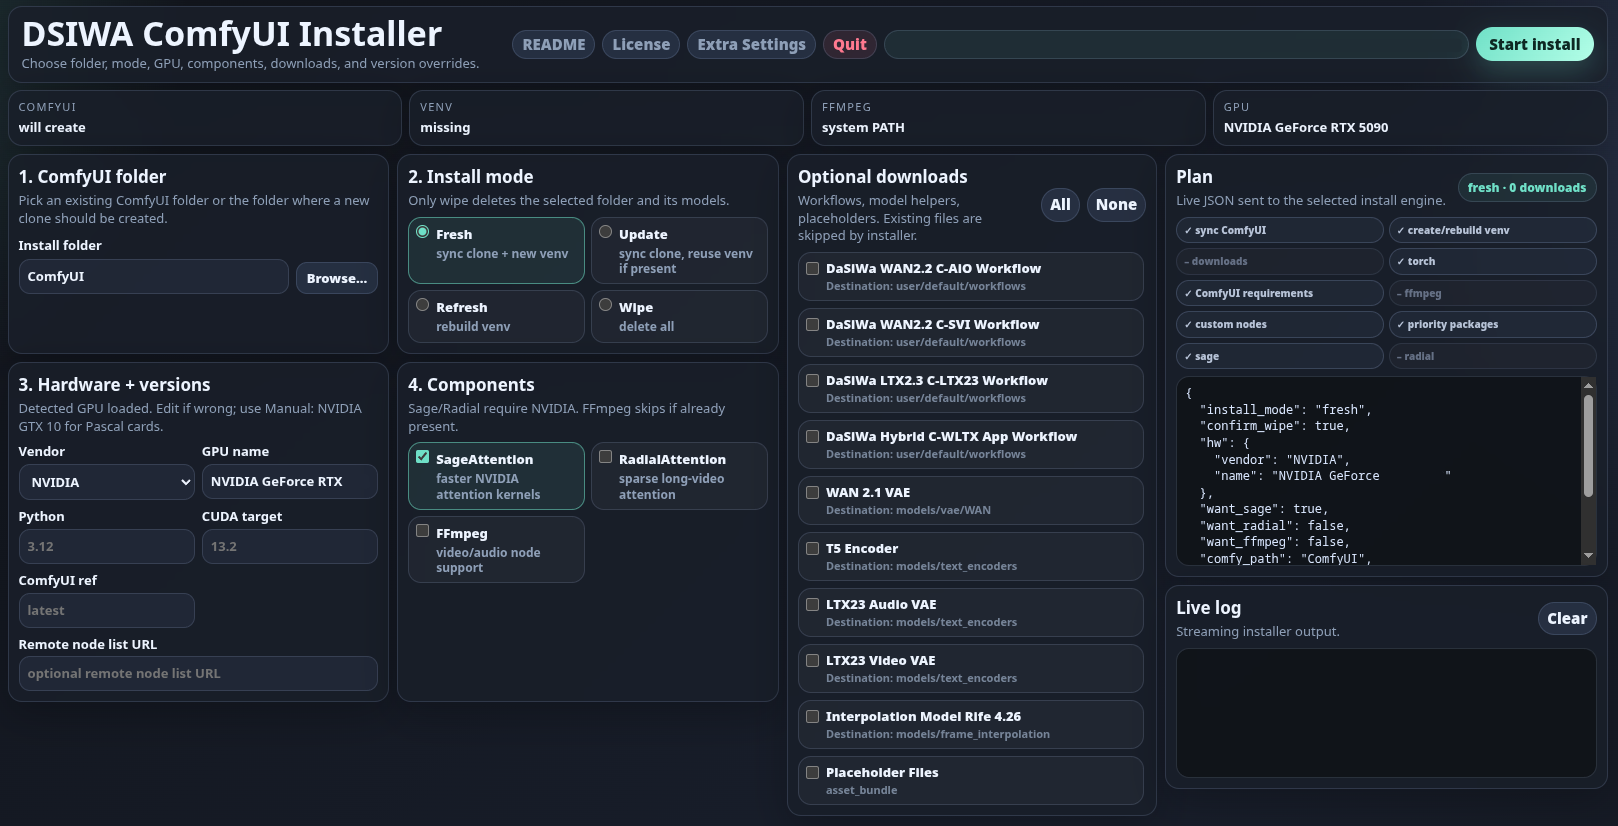
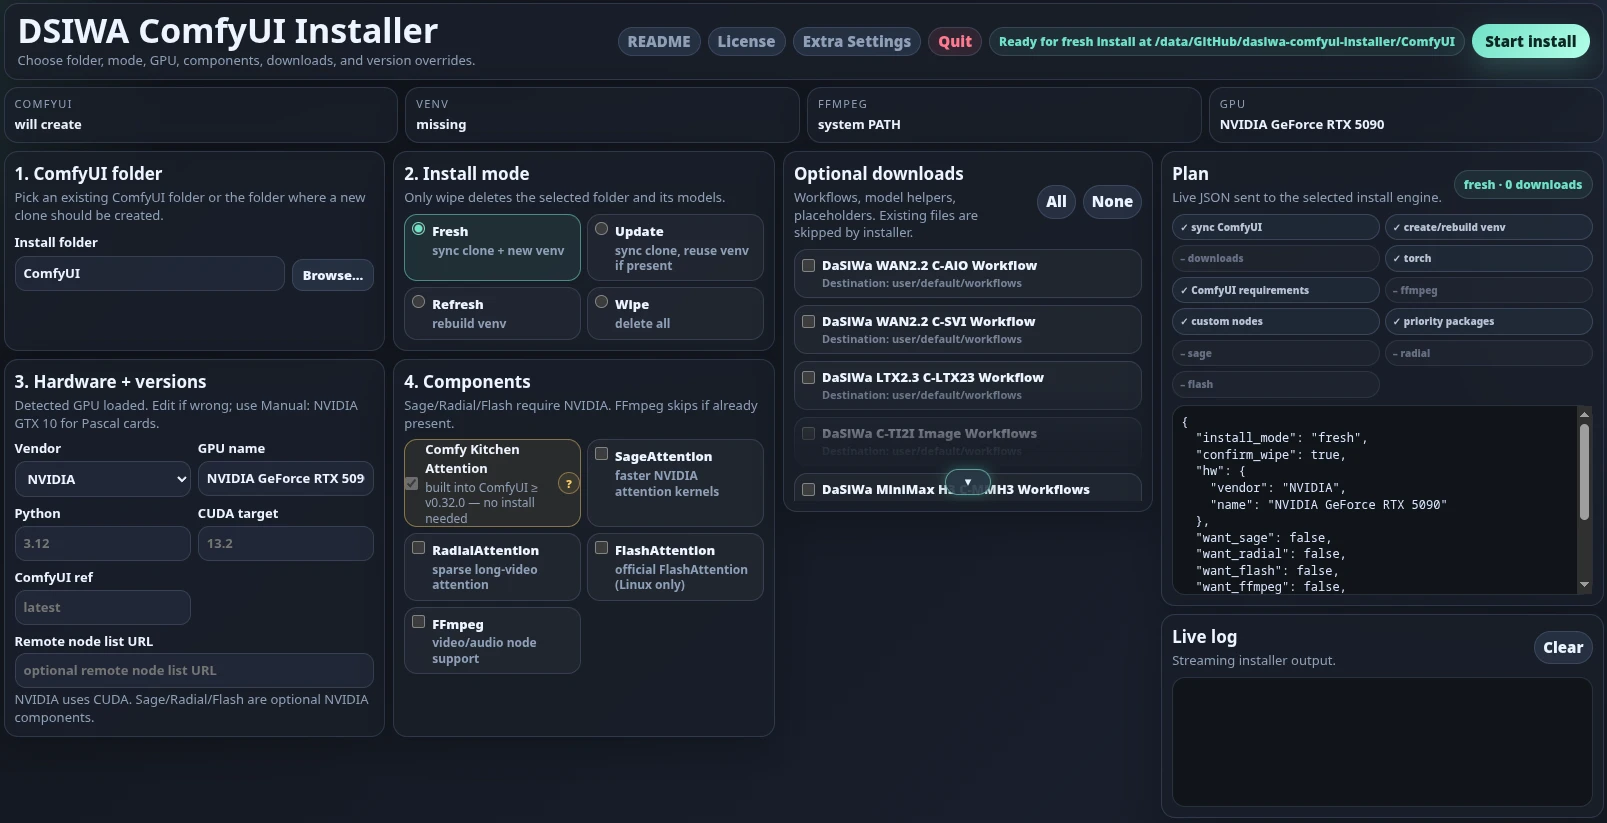
docs: refresh installer preview and align README with native implementation

diff --git a/README.md b/README.md
@@ -4,22 +4,25 @@
 
 **One binary. Walk away. Come back to a working ComfyUI.**
 
-A professional-grade installer for [ComfyUI](https://github.com/comfyanonymous/ComfyUI) built on a zero-conflict, fully isolated architecture. No Python knowledge required. No admin rights needed. No system files touched.
+A standalone installer for [ComfyUI](https://github.com/comfyanonymous/ComfyUI) with a local managed Python runtime and isolated packages. No Python knowledge required. Core installation needs no admin rights; optional Linux FFmpeg installation uses the system package manager.
 
 [![License: MIT](https://img.shields.io/badge/License-MIT-yellow.svg)](LICENSE)
-[![Platform](https://img.shields.io/badge/platform-Windows%20%7C%20Linux-blue)]()
-[![Python](https://img.shields.io/badge/python-3.12-brightgreen)]()
+[![Platform](https://img.shields.io/badge/platform-Windows%20%7C%20Linux-blue)](#prerequisites)
+[![GPU: NVIDIA | AMD](https://img.shields.io/badge/GPU-NVIDIA%20%7C%20AMD-76B900)](#hardware-support)
+[![Python default: 3.12](https://img.shields.io/badge/python%20default-3.12-brightgreen)](#configuration)
 
 </div>
 
-![DaSiWa ComfyUI Installer](assets/DaSiWa-ComfyUI-Installer.webp)
+![DaSiWa ComfyUI Installer — one-page setup, hardware selection, components and live plan](assets/DaSiWa-ComfyUI-Installer.webp)
+
+*One-page installer UI. NVIDIA is selected in this preview; AMD ROCm prerequisites and verification limits are listed below.*
 
 ---
 
 ## Unified One-Page Installer
 
 The installer now presents the full setup on a single local page. Folder
-selection, install mode, GPU and CUDA target, SageAttention, FFmpeg, optional
+selection, install mode, GPU backend and CUDA target, Sage/Radial/FlashAttention, FFmpeg, optional
 downloads, and the final install plan are all visible at once, with no separate
 pages or script chain to follow.
 
@@ -28,7 +31,7 @@ That unified layout is deliberate:
 - Choose the ComfyUI folder once.
 - Pick the install mode once.
 - Review hardware and version overrides in the same view.
-- Toggle SageAttention, FFmpeg, and optional downloads without leaving the page.
+- Toggle NVIDIA-only Sage/Radial/FlashAttention, FFmpeg, and optional downloads without leaving the page.
 - Inspect the live JSON plan before starting the install.
 - Use **Extra Settings** for in-memory overrides without mutating the embedded defaults.
 
@@ -37,12 +40,12 @@ That unified layout is deliberate:
 ## What it does
 
 You run the standalone installer binary. It opens a local web UI, asks you a
-handful of questions upfront, then handles everything else unattended:
+handful of choices upfront, then runs the native installation flow:
 
-- Downloads and configures a **fully portable Python 3.12 environment** isolated inside your ComfyUI folder
-- Clones ComfyUI at the latest stable release tag or a specific version you choose
-- Detects your GPU and installs the **exact right PyTorch build** for your hardware
-- Optionally installs **SageAttention**, **RadialAttention**, **FlashAttention**, **FFmpeg**, and a curated set of **custom nodes**
+- Downloads a **managed Python runtime** (3.12 by default) into `ComfyUI/.dasiwa/python/`, with packages isolated in `ComfyUI/venv/`
+- Clones ComfyUI from its default branch; subsequent syncs use `master` for `latest`, or a chosen ref
+- Detects GPU hardware and selects **CUDA, AMD ROCm or Intel XPU** packages; AMD selection and GPU computation are checked explicitly
+- Installs the configured **custom nodes** and optionally **SageAttention**, **RadialAttention**, **FlashAttention** and **FFmpeg**
 - Creates a ready-to-launch `run_comfyui` starter in your ComfyUI folder
 - On subsequent runs, detects what's already installed and asks whether to update, refresh, or leave it alone
 
@@ -104,7 +107,7 @@ To build standalone app binaries, use the build script:
 
 ```bash
 ./build.sh            # version auto-detected via `git describe`
-./build.sh 2.0.0     # or pin a specific version
+./build.sh 2.2.0     # or pin a specific version
 ```
 
 This cross-builds the Windows and Linux installer binaries directly into the
@@ -119,7 +122,7 @@ Equivalently, run the Go release builder directly (`--out` optionally selects
 a different single output directory; it does not create a root mirror):
 
 ```bash
-go run ./cmd/build-release --version 2.0.0
+go run ./cmd/build-release --version 2.2.0
 ```
 
 Those binaries can be copied into an empty install folder and launched directly.
@@ -134,9 +137,10 @@ extra file.
 | Requirement | Notes |
 | :---------- | :---- |
 | **GPU** | NVIDIA (GTX 10-series or newer), a listed AMD model/target below, or Intel Arc |
-| **Internet** | Active connection; ~20 GB free disk space for a full install with models |
-| **Git** | Auto-installed on Windows if missing (fetches the latest release automatically). Required on Linux: `sudo apt install git` |
-| **Admin rights** | Not required |
+| **Internet / disk** | Active connection; reserve space for the Python/Torch runtime, caches and selected models. Large optional encoders can require many GB each. |
+| **Git** | Must already be available in PATH on Windows and Linux; the installer does not install Git. |
+| **Drivers** | Install compatible GPU drivers beforehand; the installer does not install or update drivers. AMD requirements are below. |
+| **Admin rights** | Not required for the core install. Missing Linux FFmpeg is installed via a system package manager, normally requiring sudo. |
 
 ---
 
@@ -149,25 +153,25 @@ on one page, then start the install once.
 
 **The page includes:**
 
-1. **Install mode** — Update in place, Refresh the environment, Full reinstall, or Cancel. Nothing destructive happens without explicit confirmation.
+1. **Install mode** — Fresh, Update, Refresh, or Wipe. Wipe requires the deletion checkbox; **Quit** exits without starting an installation.
 2. **Hardware and versions** — GPU vendor, GPU name, Python version, ComfyUI ref, and CUDA target.
-3. **SageAttention** — yes or no. Modern NVIDIA installs use the complete CUDA 12.8 PyTorch wheel bundle when a requested CUDA 13.x target is not installable with `torchaudio` on Windows. Embedded defaults and local overrides are never mutated.
+3. **Components** — SageAttention, RadialAttention and FlashAttention are opt-in NVIDIA components. AMD/Intel selections disable and uncheck them. Comfy Kitchen Attention is shown as built into compatible ComfyUI versions, not installed as a separate optional extension.
 4. **FFmpeg** — yes or no. Skipped automatically if already present.
 5. **Optional downloads** — shows only what is not already on disk.
 6. **Live plan** — a JSON preview of the exact install request that will be submitted to the native installer engine.
 
-The page is single-shot by design: once you click start, the native Go installer runs unattended until completion.
+The page collects choices before starting the native Go installer. Core package operations require no interactive choices. If FFmpeg is missing on Linux, install it beforehand or disable its component to avoid a sudo-dependent system installation.
 
 ---
 
 ## Hardware Support
 
-GPU detection is automatic. If detection fails, you get a manual selection menu — a CPU-only install is never silently allowed.
+GPU detection is automatic, but review the vendor and editable GPU-name field before starting. Detection failure leaves a manual NVIDIA placeholder; select the actual vendor/model. AMD rejects unknown names and requires a working GPU computation. NVIDIA/Intel do not currently have the same end-to-end GPU probe.
 
 | Vendor | Series | PyTorch Build |
 | :----- | :----- | :------------ |
-| **NVIDIA** | RTX 20 / 30 / 40 | CUDA 12.8 + Torch 2.9.1 + torchaudio 2.9.1 (configurable) |
-| **NVIDIA** | RTX 50 (Blackwell) | CUDA 12.8 + Torch 2.9.1 + torchaudio 2.9.1 |
+| **NVIDIA** | RTX 20 / 30 / 40 | Default CUDA 13.0: Torch 2.11.0, torchvision 0.26.0, torchaudio 2.11.0 |
+| **NVIDIA** | RTX 50 (Blackwell) | Default CUDA 13.0: Torch 2.11.0, torchvision 0.26.0, torchaudio 2.11.0 |
 | **NVIDIA** | GTX 10 / Pascal | CUDA 12.1 + Torch 2.4.1 (locked) |
 | **AMD** | RX 6800 / XT, 6900 XT, 6950 XT; PRO W6800 | ROCm 10.0, `gfx1030` |
 | **AMD** | RX 7900 XT / XTX; PRO W7800 / W7900 | ROCm 10.0, `gfx1100` |
@@ -178,7 +182,7 @@ GPU detection is automatic. If detection fails, you get a manual selection menu 
 | **AMD** | RX 9070 / XT; Radeon AI PRO R9700 | ROCm 10.0, `gfx1201` |
 | **Intel** | Arc / iGPU | XPU wheel |
 
-Detection uses `nvidia-smi` and `lspci` (Linux) or `Win32_VideoController` (Windows), with a weighted sort that ensures a discrete GPU always wins over an integrated one sharing the same system.
+Detection uses `nvidia-smi` and `lspci` on Linux, or Windows CIM/WMI with fallback probes. Selection uses hardware-name heuristics; verify the result on multi-GPU systems. Intel XPU package selection is implemented but is not certified by the AMD verification results.
 
 ---
 
@@ -229,16 +233,16 @@ References: [AMD ROCm 10.0 compatibility](https://rocm.docs.amd.com/en/docs-10.0
 SageAttention delivers significantly faster attention kernels for NVIDIA GPUs. The installer handles the full complexity of getting it working:
 
 **Windows — prebuilt wheel (default)**
-Queries the [wildminder.github.io](https://wildminder.github.io/AI-windows-whl/) release API at install time, finds the ABI3 wheel that matches your installed Torch version and CUDA tag, and installs it in seconds. No compiler needed for most users.
+Queries [woct0rdho/SageAttention releases](https://github.com/woct0rdho/SageAttention/releases) for a CUDA-tag-matching ABI3 wheel, with bundled fallback URLs for `cu128` and `cu130`. Torch must be at least 2.9; the installer also attempts the matching `triton-windows` family and verifies the SageAttention import.
 
-**Windows — source build (fallback)**
-If no matching prebuilt wheel exists, falls back to a full CUDA source build with proper MSVC environment loading (`vcvars64.bat` is sourced and verified, `CUDA_HOME` is auto-detected, `DISTUTILS_USE_SDK=1` is set). Build parallelism is tuned to your available RAM to avoid out-of-memory linker failures.
+**Windows — failure behavior**
+The current Windows path is wheel-only. No SageAttention source-build fallback is invoked; wheel resolution, installation or import failure stops the install when SageAttention is selected.
 
 **Linux**
 Tries the precompiled SageAttention wheel path first. If no compatible wheel exists, the installer attempts a source build only when `nvcc` and a compatible `g++`/`clang++` host compiler are available. Missing or incompatible compilers skip SageAttention instead of failing the whole ComfyUI install.
 
 **CUDA Wheel Selection**
-For modern NVIDIA cards, requested CUDA 13.x targets are normalized to the official `https://download.pytorch.org/whl/cu128` wheel index with Torch 2.9.1, torchvision 0.24.1, and torchaudio 2.9.1. PyTorch publishes `cu132` Torch and torchvision wheels, but not a matching Windows Python 3.12 `torchaudio` wheel. GTX 10 / Pascal remains locked to CUDA 12.1 and Torch 2.4.1.
+For modern NVIDIA cards, requested CUDA 13.x targets (including the configured default `13.2`) map to `https://download.pytorch.org/whl/cu130` with Torch 2.11.0, torchvision 0.26.0 and torchaudio 2.11.0. This keeps the audio package aligned with Torch rather than mixing it with newer Torch-only wheel sets. GTX 10 / Pascal remains locked to CUDA 12.1, Torch 2.4.1, torchvision 0.19.1 and torchaudio 2.4.1. SageAttention requires newer Torch and is not compatible with that legacy stack.
 
 ---
 
@@ -250,7 +254,7 @@ RadialAttention is a sparse long-video attention optimization. The installer clo
 
 ## FlashAttention
 
-FlashAttention is the official attention kernel library from Dao-AILab. It can provide significant speedups for compatible models and is Linux-only (no Windows wheels are published).
+The installer's FlashAttention path targets Dao-AILab's CUDA attention library on **NVIDIA/Linux**. The Windows path is skipped; AMD implementations are not handled by this component.
 
 **Installation strategies (in order):**
 
@@ -286,7 +290,7 @@ https://github.com/user/node
 # Recursive clone for nodes with git submodules (e.g. CosyVoice, Foley)
 https://github.com/user/node | sub
 
-# Editable/library install (pip install -e .)
+# Editable/library install (uv pip install -e .)
 https://github.com/user/node | pkg
 
 # Custom requirements filename
@@ -340,11 +344,11 @@ in the final warning summary.
 
 Running the installer a second time is safe. It detects existing state before asking any questions:
 
-- **ComfyUI already present?** Offers Update / Refresh / Full reinstall / Cancel.
-- **Venv already set up?** Reused in Update mode; rebuilt only in Refresh or Reinstall.
+- **ComfyUI already present?** Defaults to Update; Refresh and Wipe remain explicit choices.
+- **Venv already set up?** Reused/migrated in Update mode; rebuilt in Fresh, Refresh or Wipe mode.
 - **SageAttention already importable?** Skipped entirely.
 - **FFmpeg already in PATH or in `ComfyUI/ffmpeg/`?** Skipped.
-- **Models already downloaded?** Checked by filename and file size. Truncated or missing files are re-fetched; complete files are skipped.
+- **Models already downloaded?** Menu filtering checks existing filenames. When a download is processed, its size is compared with the remote size if available; this is not a checksum or a full integrity audit of files hidden by the menu.
 
 ---
 
@@ -367,25 +371,33 @@ Installer tools and caches are separate; system Python is not modified.
 | :--- | :---- | :---- |
 | Python runtime + standard library | `ComfyUI/.dasiwa/python/` | Managed by `uv`; required to run ComfyUI |
 | Python environment + packages | `ComfyUI/venv/` | Uses the ComfyUI-local runtime |
-| ComfyUI itself | `ComfyUI/` | Pinned to a specific git tag or `master` |
+| ComfyUI itself | `ComfyUI/` | Default-branch clone; existing checkout syncs to `master` or the selected ref |
 | Custom nodes | `ComfyUI/custom_nodes/` | Cloned and updated by the installer |
 | Portable FFmpeg | `ComfyUI/ffmpeg/bin/` | Windows only; injected into launcher PATH |
 | Launcher | `ComfyUI/run_comfyui.bat` / `.sh` | Opens browser + starts server |
-| SageAttention | Inside venv | Built against the venv Python |
+| SageAttention | Inside venv | Windows ABI3 wheel; Linux wheel or guarded source build |
+| AMD package constraints | `ComfyUI/.dasiwa/rocm-constraints.txt` | Pins the ROCm Torch stack for installer dependency operations |
 
-Your system Python, system PATH, and Windows registry are never touched.
+System Python, persistent system PATH and Windows registry settings are not modified. Child processes receive a local PATH. Optional Linux FFmpeg installation is the exception to local-only package installation.
 
-**Package management:** All package operations go through `uv`, which is up to 10× faster than pip and resolves dependencies without version-clash warnings. You should never use `pip` directly in this environment.
+**Python package management:** Installer package operations use `uv` against the ComfyUI venv, not system Python. Incompatible dependencies can still fail resolution and produce errors or component warnings. Do not use system `pip` to modify this environment.
 
 To manually add a package:
 
 ```
-# Windows
-.\ComfyUI\venv\Scripts\uv pip install <package-name>
+# Windows (from the installer root; local uv if downloaded)
+.\.dasiwa\bin\uv.exe pip install --python .\ComfyUI\venv\Scripts\python.exe <package-name>
 
-# Linux
-./ComfyUI/venv/bin/uv pip install <package-name>
+# Linux (from the installer root; local uv if downloaded)
+./.dasiwa/bin/uv pip install --python ./ComfyUI/venv/bin/python <package-name>
 ```
+
+If the installer reused a current PATH-provided `uv`, use `uv` instead of the
+local executable path above. Adjust the Python path if your ComfyUI folder is
+elsewhere. `uv` is not installed inside the venv. On AMD, manual operations must
+also preserve the stable AMD index and the constraints in
+`ComfyUI/.dasiwa/rocm-constraints.txt`; the installer's inherited environment is
+not automatically active in a separate terminal.
 
 ---
 
@@ -410,15 +422,17 @@ are merged over the defaults, while arrays such as `custom_nodes` and
 
 Only include the keys you want to change. Everything else inherits from `config.json`.
 
-### Full `config.json` reference
+### Runtime configuration reference
+
+The embedded `version` is `2.2.0`. AMD Torch versions and supported gfx targets are selected by the native installer, not by the `cuda` settings. The legacy `urls.msvc_build_tools` entry remains in shipped defaults but is not consumed by the current native flow.
 
 | Key | Default | Purpose |
 | :-- | :------ | :------ |
 | `python.display_name` | `"3.12"` | Python version passed to `uv python install` |
-| `comfyui.version` | `"latest"` | `"latest"` = newest git tag; any other value = specific tag |
+| `comfyui.version` | `"latest"` | `"latest"` maps to `master` for existing checkouts; another value selects a ref on sync. Initial clone uses the upstream default branch. |
 | `comfyui.fallback_branch` | `"master"` | Used if the targeted tag checkout fails |
-| `cuda.global` | `"13.2"` | Requested CUDA wheel target for NVIDIA; CUDA 13.x is normalized to CUDA 12.8 where torchaudio is required |
-| `cuda.min_cuda_for_50xx` | `"13.2"` | Requested CUDA target for Blackwell / RTX 50-series; CUDA 13.x is normalized to CUDA 12.8 where torchaudio is required |
+| `cuda.global` | `"13.2"` | Requested NVIDIA wheel target; CUDA 13.x maps to the pinned CUDA 13.0 package set |
+| `cuda.min_cuda_for_50xx` | `"13.2"` | RTX 50-series wheel target; takes precedence over the generic target and maps to CUDA 13.0 |
 | `custom_nodes` | array | Default custom node repos and optional pipe flags |
 | `urls.custom_nodes` | unset | Optional remote node-list URL; when set, it overrides `custom_nodes` |
 | `urls.ffmpeg_windows` | BtbN release URL | Portable FFmpeg zip for Windows |
@@ -426,12 +440,11 @@ Only include the keys you want to change. Everything else inherits from `config.
 | `urls.sparge_repo` | woct0rdho/SpargeAttn | SpargeAttention source for RadialAttention |
 | `urls.radial_node_repo` | woct0rdho/ComfyUI-RadialAttn | RadialAttention custom node repo |
 | `urls.flash_attn_repo` | Dao-AILab/flash-attention | FlashAttention source for the fallback build |
-| `urls.msvc_build_tools` | VS download page | Opened in-browser when MSVC is missing |
 | `optional_downloads` | — | Models and workflows offered in the web installer |
 
 ### Adding models and workflows
 
-To add items to the optional downloads menu, append to `optional_downloads` in `config.json`:
+To customize optional downloads for the current run, replace the `optional_downloads` array in **Extra Settings**. To change shipped defaults, edit `config.json` before rebuilding. A direct-download entry has this shape:
 
 ```json
 {
@@ -441,20 +454,21 @@ To add items to the optional downloads menu, append to `optional_downloads` in `
 }
 ```
 
-For GitHub-hosted assets with a `"latest"` version, include `repo_path` and `folder` instead of `url` — the installer queries the GitHub commits API to find the most recently updated file.
+For GitHub-hosted workflow JSON files, set `version` to `"latest"` and provide `repo_path` and `folder` instead of `url`. The installer lists folder contents and selects the highest trailing `-<number>.json` revision, with filename ordering as a tie-breaker/fallback. If the GitHub contents API fails, it attempts a Git-based lookup; selection is not based on commit timestamps.
 
 ---
 
 ## Run Modes
 
-When an existing install is detected, the web installer offers four choices:
+The web installer exposes these modes; **Quit** closes the app without starting an installation:
 
 | Mode | What happens |
 | :--- | :----------- |
-| **Update in place** | Pulls ComfyUI changes, re-syncs nodes, reuses the existing venv |
-| **Refresh environment** | Rebuilds the venv from scratch, reinstalls all packages, keeps models |
-| **Full reinstall** | Deletes the entire ComfyUI folder and starts over (double-confirmed) |
-| **Cancel** | Exits without touching anything |
+| **Fresh** | Clones/syncs ComfyUI and creates a new venv; on an existing folder, rebuilds its venv without deleting models |
+| **Update** | Syncs ComfyUI and nodes; reuses/migrates an existing venv while preserving its Python ABI |
+| **Refresh** | Rebuilds the venv, reinstalls packages, keeps models |
+| **Wipe** | Deletes the selected ComfyUI folder, including models, then starts over; requires the deletion checkbox and Start install |
+| **Quit** | Exits without starting installation; not an install mode |
 
 ---
 
@@ -464,11 +478,11 @@ For power users who need to tune source build performance, three environment var
 
 | Variable | Default | Effect |
 | :------- | :------ | :----- |
-| `DASIWA_SAGE_MAX_JOBS` | auto (RAM-based) | Parallel linker jobs |
+| `DASIWA_SAGE_MAX_JOBS` | `2` | Source-build jobs (Linux fallback) |
 | `DASIWA_SAGE_EXT_PARALLEL` | `2` | Parallel CUDA extension builds |
 | `DASIWA_SAGE_NVCC_THREADS` | `--threads 4` | NVCC thread count |
 
-The defaults are deliberately conservative — each MSVC/nvcc linker job peaks at ~3 GB RAM. Increasing `MAX_JOBS` beyond what your RAM supports will OOM during the link phase.
+These settings apply to the Linux source-build fallback. Keep parallelism conservative: CUDA extension compilation can consume substantial RAM, and increasing job counts can cause out-of-memory failures.
 
 ---
 
